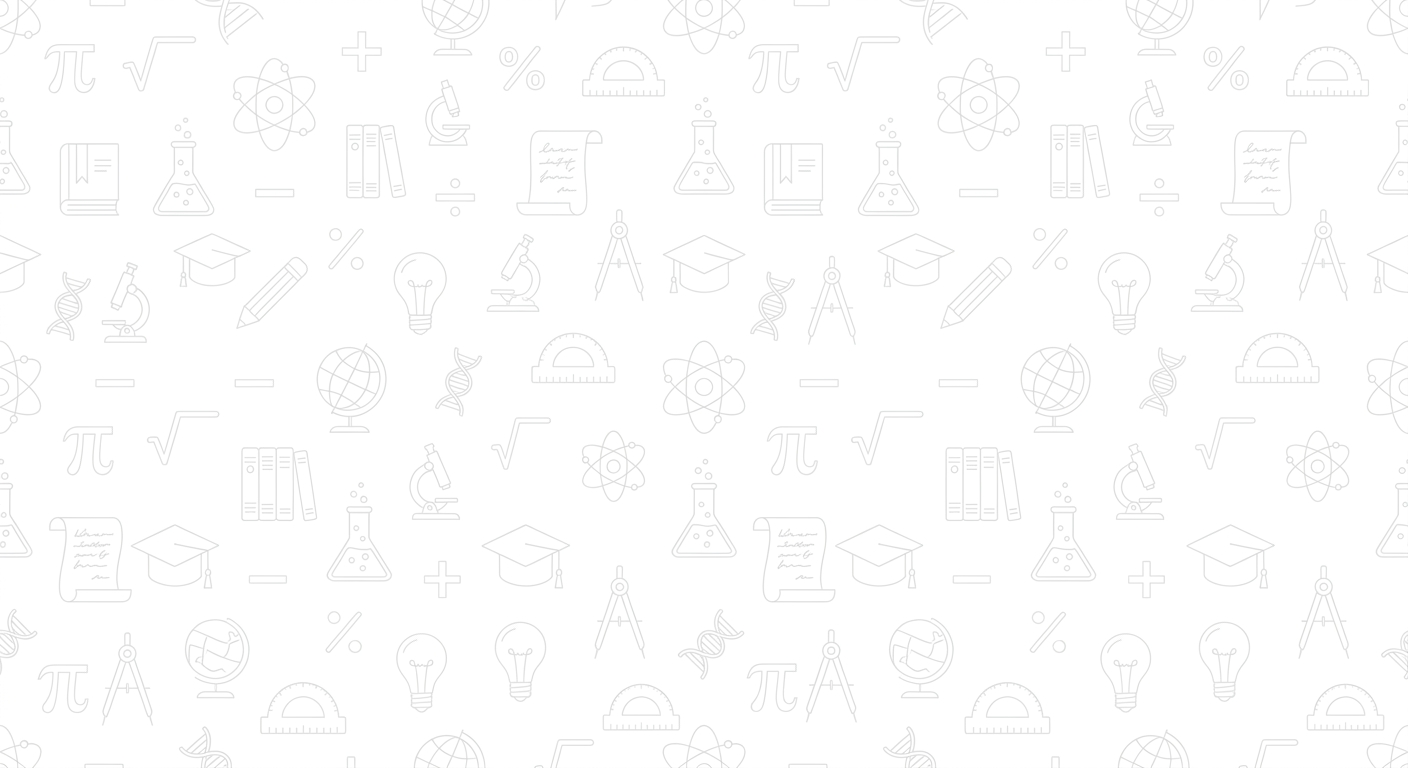
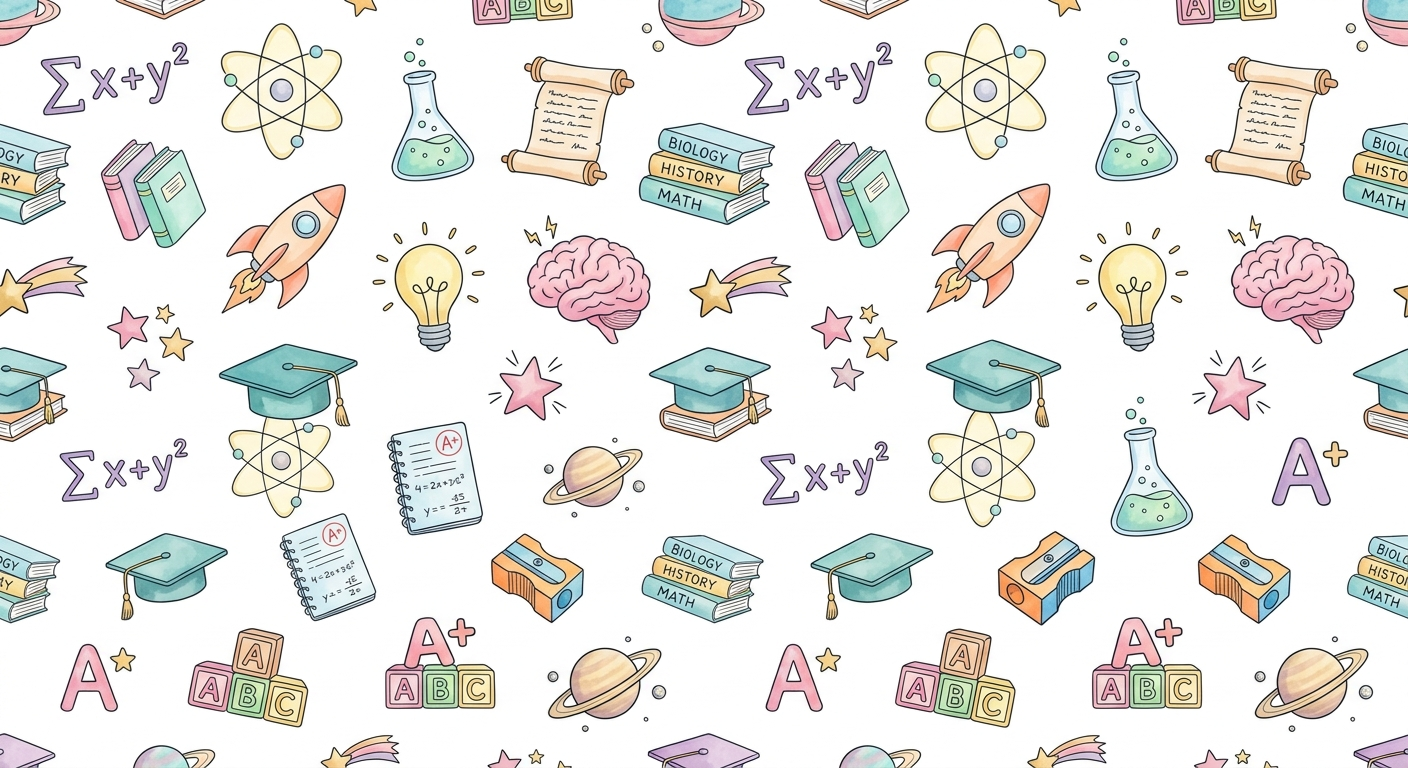
style: refine background patterns and UI theme
Adjusted background pattern opacity and color filters for improved visual consistency. Updated gradient and border radius settings in home screen components for a more refined appearance.

diff --git a/lib/screens/home_screen.dart b/lib/screens/home_screen.dart
@@ -214,8 +214,8 @@ class _HomeScreenState extends State<HomeScreen> {
           image: DecorationImage(
             image: const AssetImage('assets/images/education_bg_pattern.png'),
             repeat: ImageRepeat.repeat,
-            opacity: isLight ? 0.06 : 0.015,
-            colorFilter: isLight ? null : const ColorFilter.mode(Colors.white, BlendMode.difference),
+            opacity: isLight ? 0.09 : 0.03,
+            colorFilter: isLight ? null : const ColorFilter.mode(Colors.white54, BlendMode.modulate),
           ),
         ),
         child: _buildCurrentTab(isLight),
@@ -294,21 +294,21 @@ class _HomeScreenState extends State<HomeScreen> {
             decoration: BoxDecoration(
               gradient: LinearGradient(
                 colors: isLight 
-                    ? [Colors.white, const Color(0xFFF8FAFC)] 
-                    : [const Color(0xFF1F2937), const Color(0xFF111827)],
+                    ? [Colors.white, const Color(0xFFFBFDFF)] 
+                    : [const Color(0xFF1F2937), const Color(0xFF0F172A)],
                 begin: Alignment.topLeft,
                 end: Alignment.bottomRight,
               ),
-              borderRadius: BorderRadius.circular(24.0),
+              borderRadius: BorderRadius.circular(28.0),
               border: Border.all(
                 color: isLight ? const Color(0xFFE2E8F0) : const Color(0xFF374151),
-                width: 1,
+                width: 1.2,
               ),
               boxShadow: [
                 BoxShadow(
-                  color: isLight ? const Color(0xFF0D2353).withValues(alpha: 0.06) : Colors.black.withValues(alpha: 0.3),
-                  blurRadius: 16.0,
-                  offset: const Offset(0, 6),
+                  color: isLight ? const Color(0xFF0D2353).withValues(alpha: 0.08) : Colors.black.withValues(alpha: 0.35),
+                  blurRadius: 22.0,
+                  offset: const Offset(0, 8),
                 ),
               ],
             ),
@@ -482,21 +482,21 @@ class _HomeScreenState extends State<HomeScreen> {
             decoration: BoxDecoration(
               gradient: LinearGradient(
                 colors: isLight 
-                    ? [Colors.white, const Color(0xFFF8FAFC)] 
-                    : [const Color(0xFF1F2937), const Color(0xFF111827)],
+                    ? [Colors.white, const Color(0xFFFBFDFF)] 
+                    : [const Color(0xFF1F2937), const Color(0xFF0F172A)],
                 begin: Alignment.topLeft,
                 end: Alignment.bottomRight,
               ),
-              borderRadius: BorderRadius.circular(24.0),
+              borderRadius: BorderRadius.circular(28.0),
               border: Border.all(
                 color: isLight ? const Color(0xFFE2E8F0) : const Color(0xFF374151),
-                width: 1,
+                width: 1.2,
               ),
               boxShadow: [
                 BoxShadow(
-                  color: isLight ? const Color(0xFF0D2353).withValues(alpha: 0.06) : Colors.black.withValues(alpha: 0.3),
-                  blurRadius: 16.0,
-                  offset: const Offset(0, 6),
+                  color: isLight ? const Color(0xFF0D2353).withValues(alpha: 0.08) : Colors.black.withValues(alpha: 0.35),
+                  blurRadius: 22.0,
+                  offset: const Offset(0, 8),
                 ),
               ],
             ),
@@ -676,15 +676,19 @@ class _HomeScreenState extends State<HomeScreen> {
               width: double.infinity,
               padding: const EdgeInsets.symmetric(vertical: 12),
               decoration: BoxDecoration(
-                color: isLight ? Colors.white : const Color(0xFF2D3748),
+                color: isLight ? Colors.white : const Color(0xFF1F2937),
                 borderRadius: BorderRadius.zero, // Sleek rectangular format - zero border radius!
+                border: Border.all(
+                  color: isLight ? const Color(0xFFE2E8F0) : const Color(0xFF374151),
+                  width: 1.2,
+                ),
                 boxShadow: [
                   BoxShadow(
                     color: isLight 
-                        ? const Color(0xFF0F1B2B).withValues(alpha: 0.07) 
-                        : Colors.black.withValues(alpha: 0.25),
-                    blurRadius: 10.0,
-                    offset: const Offset(0, 4),
+                        ? const Color(0xFF0F1B2B).withValues(alpha: 0.04) 
+                        : Colors.black.withValues(alpha: 0.2),
+                    blurRadius: 6.0,
+                    offset: const Offset(0, 2),
                   )
                 ],
               ),

diff --git a/lib/screens/quiz_screen.dart b/lib/screens/quiz_screen.dart
@@ -1297,8 +1297,8 @@ class _QuizScreenState extends State<QuizScreen> {
           image: DecorationImage(
             image: const AssetImage('assets/images/education_bg_pattern.png'),
             repeat: ImageRepeat.repeat,
-            opacity: isLight ? 0.06 : 0.015,
-            colorFilter: isLight ? null : const ColorFilter.mode(Colors.white, BlendMode.difference),
+            opacity: isLight ? 0.09 : 0.03,
+            colorFilter: isLight ? null : const ColorFilter.mode(Colors.white54, BlendMode.modulate),
           ),
         ),
         child: SafeArea(

diff --git a/lib/screens/subject_selection_screen.dart b/lib/screens/subject_selection_screen.dart
@@ -190,8 +190,8 @@ class _SubjectSelectionScreenState extends State<SubjectSelectionScreen> {
           image: DecorationImage(
             image: const AssetImage('assets/images/education_bg_pattern.png'),
             repeat: ImageRepeat.repeat,
-            opacity: isLight ? 0.06 : 0.015,
-            colorFilter: isLight ? null : const ColorFilter.mode(Colors.white, BlendMode.difference),
+            opacity: isLight ? 0.09 : 0.03,
+            colorFilter: isLight ? null : const ColorFilter.mode(Colors.white54, BlendMode.modulate),
           ),
         ),
         child: SafeArea(

diff --git a/lib/screens/unit_selection_screen.dart b/lib/screens/unit_selection_screen.dart
@@ -624,8 +624,8 @@ class _UnitSelectionScreenState extends State<UnitSelectionScreen> {
           image: DecorationImage(
             image: const AssetImage('assets/images/education_bg_pattern.png'),
             repeat: ImageRepeat.repeat,
-            opacity: isLight ? 0.06 : 0.015,
-            colorFilter: isLight ? null : const ColorFilter.mode(Colors.white, BlendMode.difference),
+            opacity: isLight ? 0.09 : 0.03,
+            colorFilter: isLight ? null : const ColorFilter.mode(Colors.white54, BlendMode.modulate),
           ),
         ),
         child: SafeArea(